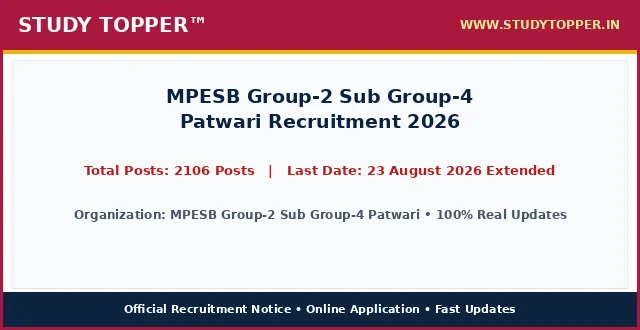
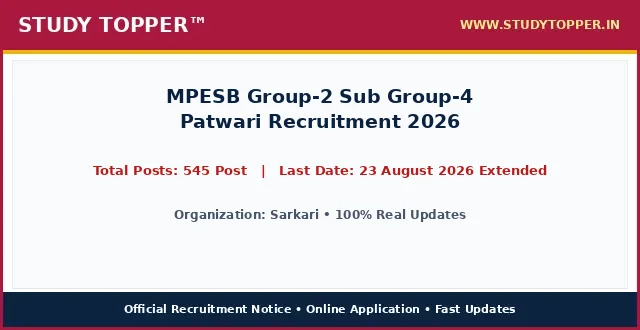
chore(lifecycle): daily auto-sort vacancies and update active dates

Changed region(s): [[0.375, 0.4848, 0.875, 0.5455], [0.0938, 0.6364, 0.9062, 0.6667], [0.125, 0.4848, 0.3438, 0.5455]]

diff --git a/pages/mpesb-group-2-sub-group-4-patwari-2026.html b/pages/mpesb-group-2-sub-group-4-patwari-2026.html
@@ -987,12 +987,12 @@ ul.wp-block-latest-posts a:hover {
 <main class="site-main" id="main">
 <div class="gb-container gb-container-b39c368c">
 <h1 class="gb-headline gb-headline-e52a0102 gb-headline-text" style="font-size: 22px; font-weight: 700; color: #0000cd; text-align: left; margin: 8px 0 4px 0; line-height: 1.3; width: 100%; font-family: '-apple-system, BlinkMacSystemFont, 'Segoe UI', Roboto, 'Helvetica Neue', Arial, sans-serif', Times, serif, Hind, sans-serif;">MPESB Group-2 Sub Group-4 Patwari Recruitment 2026</h1>
-<div class="gb-container gb-container-659bd175"><p style="color: #cd0808; font-weight: 700; font-size: 15px; margin: 2px 0 7px 0; text-align: left; font-family: '-apple-system, BlinkMacSystemFont, 'Segoe UI', Roboto, 'Helvetica Neue', Arial, sans-serif', Times, serif, Hind, sans-serif;">Post Date: August 21, 2026 07:48 PM</p></div>
-<p class="gb-headline gb-headline-550ae316 short_Details gb-headline-text" style="width: 100%; max-width: 100%; font-size: 16.8px; line-height: 1.55; color: #000000; text-align: justify; text-justify: inter-word; margin: 8px 0 14px 0; display: block; font-family: '-apple-system, BlinkMacSystemFont, 'Segoe UI', Roboto, 'Helvetica Neue', Arial, sans-serif', Times, serif, Hind, sans-serif;"><strong style="color: #0000cd;">MPESB Group-2 Sub Group-4 Patwari</strong> has officially published the recruitment notice <strong style="color: #cd0808;">MPESB Group-2 Sub Group-4 Patwari Recruitment 2026</strong> under notification number Official Advt 2026. Online applications are invited for 2106 Posts across multiple departments and cadre positions. Interested candidates possessing the requisite educational qualifications and falling between 18 Years to 45 Years (SC, ST, OBC, PwBD & All Female) can complete their online registration before the application deadline of 23 August 2026 Extended. Applicants should read the eligibility criteria, category reservation rules, and exam scheme thoroughly before submitting applications.</p>
+<div class="gb-container gb-container-659bd175"><p style="color: #cd0808; font-weight: 700; font-size: 15px; margin: 2px 0 7px 0; text-align: left; font-family: '-apple-system, BlinkMacSystemFont, 'Segoe UI', Roboto, 'Helvetica Neue', Arial, sans-serif', Times, serif, Hind, sans-serif;">Post Date: August 22, 2026 11:28 AM</p></div>
+<p class="gb-headline gb-headline-550ae316 short_Details gb-headline-text" style="width: 100%; max-width: 100%; font-size: 16.8px; line-height: 1.55; color: #000000; text-align: justify; text-justify: inter-word; margin: 8px 0 14px 0; display: block; font-family: '-apple-system, BlinkMacSystemFont, 'Segoe UI', Roboto, 'Helvetica Neue', Arial, sans-serif', Times, serif, Hind, sans-serif;"><strong style="color: #0000cd;">Sarkari</strong> has officially published the recruitment notice <strong style="color: #cd0808;">MPESB Group-2 Sub Group-4 Patwari Recruitment 2026</strong> under notification number Official Advt 2026. Online applications are invited for 545 Post across multiple departments and cadre positions. Interested candidates possessing the requisite educational qualifications and falling between 18 Years to 40 Years can complete their online registration before the application deadline of 23 August 2026 Extended. Applicants should read the eligibility criteria, category reservation rules, and exam scheme thoroughly before submitting applications.</p>
 <div class="gb-container gb-container-9849916c"><div class="social-buttons-compact" style="display: flex; justify-content: flex-start; align-items: center; gap: 10px; margin: 10px 0 16px 0; width: 100%;"><a class="social-btn-compact wa" href="https://whatsapp.com/channel/0029Va9xyz" rel="noopener" style="background-color: #00d084; color: #ffffff; padding: 10px 18px; border-radius: 4px; text-decoration: none; font-weight: bold; font-size: 15.5px; display: inline-flex; align-items: center; justify-content: center; height: auto;" target="_blank">WhatsApp</a><a class="social-btn-compact tg" href="https://t.me/studytopperofficial" rel="noopener" style="background-color: #0088cc; color: #ffffff; padding: 10px 18px; border-radius: 4px; text-decoration: none; font-weight: bold; font-size: 15.5px; display: inline-flex; align-items: center; justify-content: center; height: auto;" target="_blank">Telegram</a></div></div>
 <div class="gb-container gb-container-f58e6ca1" style="border: 2px solid #5b032f; border-radius: 4px; overflow: hidden; margin: 15px 0 20px 0; background-color: #ffffff; width: 100%; box-sizing: border-box;">
 <h2 class="gb-headline gb-headline-2ca5a791 gb-headline-text" style="font-size: 16px; font-weight: 700; text-align: center; color: #ef0303; line-height: 1.3; padding: 6px 4px; margin: 0; background: #ffffff; font-family: '-apple-system, BlinkMacSystemFont, 'Segoe UI', Roboto, 'Helvetica Neue', Arial, sans-serif', Times, serif, Hind, sans-serif;">MPESB Group-2 Sub Group-4 Patwari Recruitment 2026 &ndash; Latest Details &amp; Updates</h2>
-<h3 class="gb-headline gb-headline-7d5f86e8 gb-headline-text" style="font-size: 16px; font-weight: 600; text-align: center; color: #009703; line-height: 1.25; margin: 0; padding: 2px 4px 6px 4px; background: #ffffff; font-family: '-apple-system, BlinkMacSystemFont, 'Segoe UI', Roboto, 'Helvetica Neue', Arial, sans-serif', Times, serif, Hind, sans-serif;">MPESB Group-2 Sub Group-4 Patwari : Details &amp; Summary</h3>
+<h3 class="gb-headline gb-headline-7d5f86e8 gb-headline-text" style="font-size: 16px; font-weight: 600; text-align: center; color: #009703; line-height: 1.25; margin: 0; padding: 2px 4px 6px 4px; background: #ffffff; font-family: '-apple-system, BlinkMacSystemFont, 'Segoe UI', Roboto, 'Helvetica Neue', Arial, sans-serif', Times, serif, Hind, sans-serif;">Sarkari : Details &amp; Summary</h3>
 <p class="gb-headline gb-headline-79adf169 gb-headline-text" style="margin: 0 0 6px 0; font-family: '-apple-system, BlinkMacSystemFont, 'Segoe UI', Roboto, 'Helvetica Neue', Arial, sans-serif', Times, serif, Hind, sans-serif; text-align: center; font-size: 18px; font-weight: 700;"><a href="/" style="color: #0000ff; text-decoration: underline;">StudyTopper.in</a></p>
 
 <style id="st-post-boxes-responsive-css">
@@ -1025,7 +1025,7 @@ ul.wp-block-latest-posts a:hover {
     <div style="background-color: #5b032f; color: #ffffff; padding: 8px 10px; font-size: 20px; font-weight: 700; text-align: center; font-family: '-apple-system, BlinkMacSystemFont, 'Segoe UI', Roboto, 'Helvetica Neue', Arial, sans-serif', Times, serif, Hind, sans-serif;">Important Dates</div>
     <div style="padding: 12px 14px; background-color: #ffffff;">
       <ul style="padding-left: 20px; margin: 0; list-style-type: disc; text-align: left; font-size: 14pt; line-height: 1.6; font-family: '-apple-system, BlinkMacSystemFont, 'Segoe UI', Roboto, 'Helvetica Neue', Arial, sans-serif', Times, serif, Hind, sans-serif;">
-        <li><span style="font-size: 14pt;">Online Apply Start Date : <strong>04 August 2026</strong></span></li><li><span style="font-size: 14pt;">Online Apply Last Date : <span style="color: #ff0000;"><strong>23 August 2026 Extended</strong></span></span></li><li><span style="font-size: 14pt;">Last Date For Fee Payment : <span style="color: #ff0000;"><strong>23 August 2026</strong></span></span></li><li><span style="font-size: 14pt;">Correction Last Date : <span style="color: #ff0000;"><strong>23 August 2026</strong></span></span></li><li><span style="font-size: 14pt;">Exam Date : <strong>Notify Later</strong></span></li><li><span style="font-size: 14pt;">Admit Card : <strong>Before Exam</strong></span></li><li><span style="font-size: 14pt;">Result Date : <strong>Will Be Updated Here Soon</strong></span></li>
+        
       </ul>
     </div>
   </div>
@@ -1034,7 +1034,7 @@ ul.wp-block-latest-posts a:hover {
     <div style="background-color: #5b032f; color: #ffffff; padding: 8px 10px; font-size: 20px; font-weight: 700; text-align: center; font-family: '-apple-system, BlinkMacSystemFont, 'Segoe UI', Roboto, 'Helvetica Neue', Arial, sans-serif', Times, serif, Hind, sans-serif;">Application Fee</div>
     <div style="padding: 12px 14px; background-color: #ffffff;">
       <ul style="padding-left: 20px; margin: 0; list-style-type: disc; text-align: left; font-size: 14pt; line-height: 1.6; font-family: '-apple-system, BlinkMacSystemFont, 'Segoe UI', Roboto, 'Helvetica Neue', Arial, sans-serif', Times, serif, Hind, sans-serif;">
-        <li><span style="font-size: 14pt;">For General / Other State : <strong>Rs. 500/-</strong></span></li><li><span style="font-size: 14pt;">For SC / ST/ OBC : <strong>Rs. 250/-</strong></span></li><li><span style="font-size: 14pt;">For Portal Charge Extra : <strong>Rs. 60/-</strong></span></li><li><span style="font-size: 14pt;">Payment Mode (Online) : <strong>You can make the payment using the following methods:</strong></span></li>
+        <li><span style="font-size: 14pt;">Bihar Police BPSSC Sub Inspector SI Prohibition Result 2026 Advt. No. : <strong>03/2026</strong></span></li><li><span style="font-size: 14pt;">UP Scholarship Online Form 2026 : <strong>2027</strong></span></li>
       </ul>
       <div style="margin-top: 10px; font-size: 14pt; line-height: 1.5; color: #000000; border-top: 1px dashed #ccc; padding-top: 8px; font-family: '-apple-system, BlinkMacSystemFont, 'Segoe UI', Roboto, 'Helvetica Neue', Arial, sans-serif', Times, serif, Hind, sans-serif;">
         <strong>Mode of Payment / Access:</strong> Online via Net Banking, Debit Card, Credit Card, UPI or Free Candidate Portal.
@@ -1047,10 +1047,10 @@ ul.wp-block-latest-posts a:hover {
 <div class="st-grid-row" style="display: flex; flex-wrap: wrap; width: 100%; border-top: 2px solid #5b032f; margin: 0; padding: 0; box-sizing: border-box;">
   <!-- Left Col: Age Limits -->
   <div class="st-col-half st-col-border-right" style="box-sizing: border-box; vertical-align: top;">
-    <div style="background-color: #046132; color: #ffffff; padding: 8px 10px; font-size: 17px; font-weight: 700; text-align: center; font-family: '-apple-system, BlinkMacSystemFont, 'Segoe UI', Roboto, 'Helvetica Neue', Arial, sans-serif', Times, serif, Hind, sans-serif;">MPESB Group-2 Sub Group-4 Patwari : Age Limits As On 01 August 2026</div>
+    <div style="background-color: #046132; color: #ffffff; padding: 8px 10px; font-size: 17px; font-weight: 700; text-align: center; font-family: '-apple-system, BlinkMacSystemFont, 'Segoe UI', Roboto, 'Helvetica Neue', Arial, sans-serif', Times, serif, Hind, sans-serif;">Sarkari : Age Limits As On 01 August 2026</div>
     <div style="padding: 12px 14px; background-color: #ffffff;">
       <ul style="padding-left: 20px; margin: 0; list-style-type: disc; text-align: left; font-size: 14pt; line-height: 1.6; font-family: '-apple-system, BlinkMacSystemFont, 'Segoe UI', Roboto, 'Helvetica Neue', Arial, sans-serif', Times, serif, Hind, sans-serif;">
-        <li><span style="font-size: 14pt;">Minimum Age : <strong>18 Years</strong></span></li><li><span style="font-size: 14pt;">Maximum Age : <strong>45 Years (SC, ST, OBC, PwBD & All Female)</strong></span></li><li><span style="font-size: 14pt;">MPESB provides age relaxation for the Group : <strong>2 Sub Group-4 Patwari as per their regulations.</strong></span></li><li><span style="font-size: 14pt;">Minimum age required is 18 Years & The Maximum Age Is 40 : <strong>45 Years Category Wise as on 01 January 2026.</strong></span></li>
+        
       </ul>
     </div>
   </div>
@@ -1058,7 +1058,7 @@ ul.wp-block-latest-posts a:hover {
   <div class="st-col-half" style="box-sizing: border-box; vertical-align: top;">
     <div style="background-color: #f53c00; color: #ffffff; padding: 8px 10px; font-size: 20px; font-weight: 700; text-align: center; font-family: '-apple-system, BlinkMacSystemFont, 'Segoe UI', Roboto, 'Helvetica Neue', Arial, sans-serif', Times, serif, Hind, sans-serif;">Total Post</div>
     <div style="padding: 24px 10px; background-color: #ffffff; text-align: center;">
-      <span style="font-size: 28px; font-weight: 800; color: #000000; font-family: '-apple-system, BlinkMacSystemFont, 'Segoe UI', Roboto, 'Helvetica Neue', Arial, sans-serif', Times, serif, Hind, sans-serif;">2106 Posts</span>
+      <span style="font-size: 28px; font-weight: 800; color: #000000; font-family: '-apple-system, BlinkMacSystemFont, 'Segoe UI', Roboto, 'Helvetica Neue', Arial, sans-serif', Times, serif, Hind, sans-serif;">545 Post</span>
     </div>
   </div>
 </div>
@@ -1073,13 +1073,13 @@ ul.wp-block-latest-posts a:hover {
 <table style="border-collapse: collapse; width: 100%; height: 150px;">
 <tbody>
 <tr style="height: 25px;">
-<td colspan="2" style="width: 50%; text-align: center; height: 25px;"><span style="background-color: #000080; color: #ffffff; font-size: 14pt;"><strong> MPESB Group-2 Sub Group-4 Patwari : Category Wise Vacancy Details </strong></span></td>
+<td colspan="2" style="width: 50%; text-align: center; height: 25px;"><span style="background-color: #000080; color: #ffffff; font-size: 14pt;"><strong> Sarkari : Category Wise Vacancy Details </strong></span></td>
 </tr>
 <tr style="height: 25px;">
 <td style="width: 50%; height: 25px; text-align: center;"><span style="font-size: 14pt;"><strong>Category / Particulars</strong></span></td>
 <td style="width: 50%; height: 25px; text-align: center;"><span style="font-size: 14pt;"><strong>Count / Status</strong></span></td>
 </tr>
-<tr><td style="text-align: center;">UR</td><td style="text-align: center; font-weight: normal; color: inherit;">608 Posts</td></tr><tr><td style="text-align: center;">OBC</td><td style="text-align: center; font-weight: normal; color: inherit;">613 Posts</td></tr><tr><td style="text-align: center;">EWS</td><td style="text-align: center; font-weight: normal; color: inherit;">207 Posts</td></tr><tr><td style="text-align: center;">SC</td><td style="text-align: center; font-weight: normal; color: inherit;">274 Posts</td></tr><tr><td style="text-align: center;">ST</td><td style="text-align: center; font-weight: normal; color: inherit;">404 Posts</td></tr>
+
 </tbody>
 </table>
 <p>&nbsp;</p>
@@ -1090,11 +1090,7 @@ ul.wp-block-latest-posts a:hover {
 <th style="background-color: #f53c00; color: #ffffff; padding: 6px 10px; text-align: center; border: 1px solid #d35400; font-size: 15px; font-weight: 700; font-family: '-apple-system, BlinkMacSystemFont, 'Segoe UI', Roboto, 'Helvetica Neue', Arial, sans-serif', Times, serif, Hind, sans-serif;">Total Posts</th>
 <th style="background-color: #f53c00; color: #ffffff; padding: 6px 10px; text-align: center; border: 1px solid #d35400; font-size: 15px; font-weight: 700; font-family: '-apple-system, BlinkMacSystemFont, 'Segoe UI', Roboto, 'Helvetica Neue', Arial, sans-serif', Times, serif, Hind, sans-serif;">Eligibility Criteria</th>
 </tr>
-<tr>
-<td style="padding: 8px; border: 1px solid #ddd; font-weight: bold;">Group-2 Sub Group-4 Patwari</td>
-<td style="padding: 8px; border: 1px solid #ddd; text-align: center; font-weight: bold;">2106 Posts</td>
-<td style="padding: 8px; border: 1px solid #ddd;">Candidates must have a Bachelor’s Degree in any discipline from a university recognized by the Government of India or possess an equivalent qualification approved by the Central Government. CPCT Scorecard (Hindi Typing & Computer Efficiency)</td>
-</tr>
+
 </tbody>
 </table>
 <p>&nbsp;</p>
@@ -1104,10 +1100,10 @@ ul.wp-block-latest-posts a:hover {
 <table style="border-collapse: collapse; width: 100%;">
 <tbody>
 <tr>
-<td style="width: 100%; text-align: center;"><span style="background-color: #000080; color: #ffffff; font-size: 14pt; font-weight: bold; display: block; padding: 6px;"> How to Fill MPESB Group-2 Sub Group-4 Patwari Online Application Form </span></td>
+<td style="width: 100%; text-align: center;"><span style="background-color: #000080; color: #ffffff; font-size: 14pt; font-weight: bold; display: block; padding: 6px;"> How to Fill Sarkari Online Application Form </span></td>
 </tr>
 <tr>
-<td style="width: 100%;"><ol style="margin:0; padding-left:18px; text-align: left !important; list-style-position: outside !important"><li style="margin-bottom:6px; text-align: left !important;">Visit official portal for MPESB Group-2 Sub Group-4 Patwari Recruitment 2026 via direct application link in important links section below.</li><li style="margin-bottom:6px; text-align: left !important;">Read official recruitment notification carefully to verify category eligibility criteria and age limits.</li><li style="margin-bottom:6px; text-align: left !important;">Complete online candidate registration with valid mobile number and email ID.</li><li style="margin-bottom:6px; text-align: left !important;">Fill educational qualifications, identity details, and permanent address accurately.</li><li style="margin-bottom:6px; text-align: left !important;">Upload scanned photograph and signature in required dimensions.</li><li style="margin-bottom:6px; text-align: left !important;">Resize candidate photograph and signature accurately using StudyTopper Tools resizer at indtool.in.</li><li style="margin-bottom:6px; text-align: left !important;">Pay applicable category application fee online using Debit Card, Credit Card, Net Banking, or UPI.</li><li style="margin-bottom:6px; text-align: left !important;">Review full application form preview thoroughly and submit before 23 August 2026 Extended.</li><li style="margin-bottom:6px; text-align: left !important;">Download and print submitted application confirmation page for future reference.</li></ol></td>
+<td style="width: 100%;"><ol style="margin:0; padding-left:18px; text-align: left !important; list-style-position: outside !important"><li style="margin-bottom:6px; text-align: left !important;">Resize candidate photograph and signature accurately using the <a href="https://indtool.in" rel="noopener" target="_blank"><strong>StudyTopper Tools</strong></a> image resizer at indtool.in.</li></ol></td>
 </tr>
 </tbody>
 </table>
@@ -1115,12 +1111,12 @@ ul.wp-block-latest-posts a:hover {
 <table style="border-collapse: collapse; width: 100%;">
 <tbody>
 <tr>
-<td style="width: 100%; text-align: center;"><span style="background-color: #000080; color: #ffffff; font-size: 14pt;"><strong><span style="color: #ffffff;"> MPESB Group-2 Sub Group-4 Patwari Recruitment 2026 : Mode Of Selection </span></strong></span></td>
+<td style="width: 100%; text-align: center;"><span style="background-color: #000080; color: #ffffff; font-size: 14pt;"><strong><span style="color: #ffffff;"> Sarkari Recruitment 2026 : Mode Of Selection </span></strong></span></td>
 </tr>
 <tr>
 <td style="width: 100%;">
 <ul class="wp-block-list" style="text-align: left !important; list-style-position: outside !important">
-<li style="text-align: left !important;"><span style="font-size: 14pt;"><strong>Computer Based Examination (CBE) / Evaluation</strong></span></li><li style="text-align: left !important;"><span style="font-size: 14pt;"><strong>Document Verification</strong></span></li><li style="text-align: left !important;"><span style="font-size: 14pt;"><strong>Final Merit Allotment</strong></span></li>
+<li style="text-align: left !important;"><span style="font-size: 14pt;"><strong>Computer Based Examination (CBE) / Written Exam</strong></span></li><li style="text-align: left !important;"><span style="font-size: 14pt;"><strong>Document Verification</strong></span></li><li style="text-align: left !important;"><span style="font-size: 14pt;"><strong>Medical Examination</strong></span></li>
 </ul>
 </td>
 </tr>
@@ -1155,18 +1151,10 @@ ul.wp-block-latest-posts a:hover {
 
 <tr style="border-bottom: 1px solid #000000; background-color: #fff37a;">
 <td style="width: 50%; padding: 14px 16px; border-right: 1px solid #000000; text-align: center;">
-<span style="font-size: 19px; font-weight: 800; color: #000000; font-family: '-apple-system, BlinkMacSystemFont, 'Segoe UI', Roboto, 'Helvetica Neue', Arial, sans-serif', Times, serif, Hind, sans-serif;">Apply Online</span>
+<span style="font-size: 19px; font-weight: 800; color: #000000; font-family: '-apple-system, BlinkMacSystemFont, 'Segoe UI', Roboto, 'Helvetica Neue', Arial, sans-serif', Times, serif, Hind, sans-serif;">Apply Online Link</span>
 </td>
 <td style="width: 50%; padding: 14px 16px; text-align: center;">
-<span style="font-size: 20px; font-weight: 800; font-family: '-apple-system, BlinkMacSystemFont, 'Segoe UI', Roboto, 'Helvetica Neue', Arial, sans-serif', Times, serif, Hind, sans-serif;"><a href="https://esb.mponline.gov.in/Portal/Examinations/Vyapam/examsList.aspx" aria-label="Click Here for Apply Online - MPESB Group-2 Sub Group-4 Patwari Recruitment 2026" rel="noopener noreferrer" style="color: #0000ef; font-weight: 800; text-decoration: none;" target="_blank">Click Here</a></span>
-</td>
-</tr>
-<tr style="border-bottom: 1px solid #000000; background-color: #fff37a;">
-<td style="width: 50%; padding: 14px 16px; border-right: 1px solid #000000; text-align: center;">
-<span style="font-size: 19px; font-weight: 800; color: #000000; font-family: '-apple-system, BlinkMacSystemFont, 'Segoe UI', Roboto, 'Helvetica Neue', Arial, sans-serif', Times, serif, Hind, sans-serif;">Check Date Extend Notice</span>
-</td>
-<td style="width: 50%; padding: 14px 16px; text-align: center;">
-<span style="font-size: 20px; font-weight: 800; font-family: '-apple-system, BlinkMacSystemFont, 'Segoe UI', Roboto, 'Helvetica Neue', Arial, sans-serif', Times, serif, Hind, sans-serif;"><a href="https://esb.mp.gov.in/Advertisement/ADV_2026/Group2_SG4_2026_FormDate_extended_notice_18082026.pdf" aria-label="Click Here for Check Date Extend Notice - MPESB Group-2 Sub Group-4 Patwari Recruitment 2026" rel="noopener noreferrer" style="color: #0000ef; font-weight: 800; text-decoration: none;" target="_blank">Click Here</a></span>
+<span style="font-size: 20px; font-weight: 800; font-family: '-apple-system, BlinkMacSystemFont, 'Segoe UI', Roboto, 'Helvetica Neue', Arial, sans-serif', Times, serif, Hind, sans-serif;"><a href="https://www.sarkariresult.com/2026/mpesb-group2-subgroup-4-aug26/" aria-label="Click Here for Apply Online Link - MPESB Group-2 Sub Group-4 Patwari Recruitment 2026" rel="noopener noreferrer" style="color: #0000ef; font-weight: 800; text-decoration: none;" target="_blank">Click Here</a></span>
 </td>
 </tr>
 <tr style="border-bottom: 1px solid #000000; background-color: #fff37a;">
@@ -1174,23 +1162,31 @@ ul.wp-block-latest-posts a:hover {
 <span style="font-size: 19px; font-weight: 800; color: #000000; font-family: '-apple-system, BlinkMacSystemFont, 'Segoe UI', Roboto, 'Helvetica Neue', Arial, sans-serif', Times, serif, Hind, sans-serif;">Check Official Notification</span>
 </td>
 <td style="width: 50%; padding: 14px 16px; text-align: center;">
-<span style="font-size: 20px; font-weight: 800; font-family: '-apple-system, BlinkMacSystemFont, 'Segoe UI', Roboto, 'Helvetica Neue', Arial, sans-serif', Times, serif, Hind, sans-serif;"><a href="https://esb.mp.gov.in/Rulebooks/RB_2026/Group2_SG4_Patwari_rect_test_2026_Rulebook_04082026_v2.pdf" aria-label="Click Here for Check Official Notification - MPESB Group-2 Sub Group-4 Patwari Recruitment 2026" rel="noopener noreferrer" style="color: #0000ef; font-weight: 800; text-decoration: none;" target="_blank">Click Here</a></span>
+<span style="font-size: 20px; font-weight: 800; font-family: '-apple-system, BlinkMacSystemFont, 'Segoe UI', Roboto, 'Helvetica Neue', Arial, sans-serif', Times, serif, Hind, sans-serif;"><a href="" aria-label="Click Here for Check Official Notification - MPESB Group-2 Sub Group-4 Patwari Recruitment 2026" rel="noopener noreferrer" style="color: #0000ef; font-weight: 800; text-decoration: none;" target="_blank">Click Here</a></span>
 </td>
 </tr>
 <tr style="border-bottom: 1px solid #000000; background-color: #fff37a;">
 <td style="width: 50%; padding: 14px 16px; border-right: 1px solid #000000; text-align: center;">
-<span style="font-size: 19px; font-weight: 800; color: #000000; font-family: '-apple-system, BlinkMacSystemFont, 'Segoe UI', Roboto, 'Helvetica Neue', Arial, sans-serif', Times, serif, Hind, sans-serif;">MPESB Official Website</span>
+<span style="font-size: 19px; font-weight: 800; color: #000000; font-family: '-apple-system, BlinkMacSystemFont, 'Segoe UI', Roboto, 'Helvetica Neue', Arial, sans-serif', Times, serif, Hind, sans-serif;">Photo / Sign Resizer Tool</span>
 </td>
 <td style="width: 50%; padding: 14px 16px; text-align: center;">
-<span style="font-size: 20px; font-weight: 800; font-family: '-apple-system, BlinkMacSystemFont, 'Segoe UI', Roboto, 'Helvetica Neue', Arial, sans-serif', Times, serif, Hind, sans-serif;"><a href="https://esb.mp.gov.in/e_default.html" aria-label="Click Here for MPESB Official Website - MPESB Group-2 Sub Group-4 Patwari Recruitment 2026" rel="noopener noreferrer" style="color: #0000ef; font-weight: 800; text-decoration: none;" target="_blank">Click Here</a></span>
+<span style="font-size: 20px; font-weight: 800; font-family: '-apple-system, BlinkMacSystemFont, 'Segoe UI', Roboto, 'Helvetica Neue', Arial, sans-serif', Times, serif, Hind, sans-serif;"><a href="https://indtool.in" aria-label="Click Here for Photo / Sign Resizer Tool - MPESB Group-2 Sub Group-4 Patwari Recruitment 2026" rel="noopener noreferrer" style="color: #0000ef; font-weight: 800; text-decoration: none;" target="_blank">Click Here</a></span>
 </td>
 </tr>
-<tr style=" background-color: #fff37a;">
+<tr style="border-bottom: 1px solid #000000; background-color: #fff37a;">
 <td style="width: 50%; padding: 14px 16px; border-right: 1px solid #000000; text-align: center;">
 <span style="font-size: 19px; font-weight: 800; color: #000000; font-family: '-apple-system, BlinkMacSystemFont, 'Segoe UI', Roboto, 'Helvetica Neue', Arial, sans-serif', Times, serif, Hind, sans-serif;">Check Sarkari Result</span>
 </td>
 <td style="width: 50%; padding: 14px 16px; text-align: center;">
 <span style="font-size: 20px; font-weight: 800; font-family: '-apple-system, BlinkMacSystemFont, 'Segoe UI', Roboto, 'Helvetica Neue', Arial, sans-serif', Times, serif, Hind, sans-serif;"><a href="/" aria-label="Click Here for Check Sarkari Result - MPESB Group-2 Sub Group-4 Patwari Recruitment 2026" rel="noopener noreferrer" style="color: #0000ef; font-weight: 800; text-decoration: none;" >Click Here</a></span>
+</td>
+</tr>
+<tr style=" background-color: #fff37a;">
+<td style="width: 50%; padding: 14px 16px; border-right: 1px solid #000000; text-align: center;">
+<span style="font-size: 19px; font-weight: 800; color: #000000; font-family: '-apple-system, BlinkMacSystemFont, 'Segoe UI', Roboto, 'Helvetica Neue', Arial, sans-serif', Times, serif, Hind, sans-serif;">Sarkari Website</span>
+</td>
+<td style="width: 50%; padding: 14px 16px; text-align: center;">
+<span style="font-size: 20px; font-weight: 800; font-family: '-apple-system, BlinkMacSystemFont, 'Segoe UI', Roboto, 'Helvetica Neue', Arial, sans-serif', Times, serif, Hind, sans-serif;"><a href="" aria-label="Click Here for Sarkari Website - MPESB Group-2 Sub Group-4 Patwari Recruitment 2026" rel="noopener noreferrer" style="color: #0000ef; font-weight: 800; text-decoration: none;" target="_blank">Click Here</a></span>
 </td>
 </tr>
 </tbody>
@@ -1204,9 +1200,9 @@ ul.wp-block-latest-posts a:hover {
   <div style="font-size: 14.5px; line-height: 1.65; color: #222222;">
     <p style="margin: 0 0 4px 0;"><strong style="color: #000080;">Q1. What is the last date to apply for MPESB Group-2 Sub Group-4 Patwari Recruitment 2026?</strong></p>
 <p style="margin: 0 0 16px 0; color: #333333; line-height: 1.6;">Ans. The last date for online submission of application is 23 August 2026 Extended.</p><p style="margin: 0 0 4px 0;"><strong style="color: #000080;">Q2. What is the age limit for MPESB Group-2 Sub Group-4 Patwari Recruitment 2026?</strong></p>
-<p style="margin: 0 0 16px 0; color: #333333; line-height: 1.6;">Ans. Candidate age should generally be between 18 Years and 45 Years (SC, ST, OBC, PwBD & All Female) as on 01 August 2026. Age relaxation is applicable per rules.</p><p style="margin: 0 0 4px 0;"><strong style="color: #000080;">Q3. What is the application fee for MPESB Group-2 Sub Group-4 Patwari Recruitment 2026?</strong></p>
+<p style="margin: 0 0 16px 0; color: #333333; line-height: 1.6;">Ans. Candidate age should generally be between 18 Years and 40 Years as on 01 August 2026. Age relaxation is applicable per rules.</p><p style="margin: 0 0 4px 0;"><strong style="color: #000080;">Q3. What is the application fee for MPESB Group-2 Sub Group-4 Patwari Recruitment 2026?</strong></p>
 <p style="margin: 0 0 16px 0; color: #333333; line-height: 1.6;">Ans. Application fee varies by category (e.g., General/OBC: Rs. 100/-, SC/ST/PwD: Exempted).</p><p style="margin: 0 0 4px 0;"><strong style="color: #000080;">Q4. How many total posts are available in MPESB Group-2 Sub Group-4 Patwari Recruitment 2026?</strong></p>
-<p style="margin: 0 0 16px 0; color: #333333; line-height: 1.6;">Ans. A total of 2106 Posts have been officially announced for this recruitment drive.</p><p style="margin: 0 0 4px 0;"><strong style="color: #000080;">Q5. How can I apply online for MPESB Group-2 Sub Group-4 Patwari Recruitment 2026?</strong></p>
+<p style="margin: 0 0 16px 0; color: #333333; line-height: 1.6;">Ans. A total of 545 Post have been officially announced for this recruitment drive.</p><p style="margin: 0 0 4px 0;"><strong style="color: #000080;">Q5. How can I apply online for MPESB Group-2 Sub Group-4 Patwari Recruitment 2026?</strong></p>
 <p style="margin: 0 0 0 0; color: #333333; line-height: 1.6;">Ans. Eligible candidates can click the 'Apply Online' link in the Important Links table, register, fill details, resize photo/signature via indtool.in, and submit before 23 August 2026 Extended.</p>
   </div>
 </div>

diff --git a/fact_checker_agent.py b/fact_checker_agent.py
@@ -103,10 +103,71 @@ class FactCheckerAgent:
                         elif 'official website' in at:
                             official_site = href
 
+
+                    # Table Extractions
+                    post_matrix = []
+                    category_vacancies = {}
+                    how_to_fill = []
+                    tables = soup.find_all('table')
+                    if tables:
+                        table = tables[-1]
+                        rows = table.find_all('tr')
+                        i = 0
+                        while i < len(rows):
+                            tr = rows[i]
+                            text = tr.get_text(separator=' | ', strip=True).lower()
+                            
+                            # 1. Post Matrix
+                            if 'vacancy details' in text and 'total' in text and 'category wise' not in text:
+                                i += 1
+                                if i < len(rows):
+                                    i += 1
+                                    while i < len(rows):
+                                        data_text = rows[i].get_text(strip=True).lower()
+                                        if 'how to fill' in data_text or 'category wise' in data_text or 'exam district' in data_text or 'interested candidates' in data_text:
+                                            i -= 1
+                                            break
+                                        tds = [td.get_text(separator=' ', strip=True) for td in rows[i].find_all(['td', 'th'])]
+                                        if len(tds) >= 3:
+                                            post_matrix.append({
+                                                "name": tds[0],
+                                                "posts": tds[1],
+                                                "eligibility": " ".join(tds[2:])
+                                            })
+                                        i += 1
+                                    i += 1
+                                    continue
+                                    
+                            # 2. Category Wise
+                            if 'category wise vacancy details' in text:
+                                i += 1
+                                if i < len(rows):
+                                    headers_td = [td.get_text(strip=True) for td in rows[i].find_all(['td', 'th'])]
+                                    i += 1
+                                    if i < len(rows):
+                                        data_tds = [td.get_text(strip=True) for td in rows[i].find_all(['td', 'th'])]
+                                        for h, d in zip(headers_td, data_tds):
+                                            if h.lower() != 'post name':
+                                                category_vacancies[h] = d
+                                    i += 1
+                                    continue
+                                    
+                            # 3. How to Fill
+                            if 'how to fill' in text and 'online form' in text:
+                                td = tr.find(['td', 'th'])
+                                if td:
+                                    lines = [t.strip() for t in td.stripped_strings if len(t.strip()) > 10 and 'Sarkari Result' not in t]
+                                    how_to_fill = lines[1:] if lines else []
+                            
+                            i += 1
+
                     return {
                         "verified": True,
                         "source_url": url,
                         "title": title,
+                        "post_matrix": post_matrix,
+                        "category_vacancies": category_vacancies,
+                        "how_to_fill": how_to_fill,
                         "total_posts": total_posts,
                         "important_dates": dates,
                         "application_fee": fees,

diff --git a/rebuild_tables.py b/rebuild_tables.py
@@ -1,0 +1,40 @@
+import sys
+import json
+import os
+sys.path.append('/root/sarkari-result-portal')
+import fact_checker_agent
+import universal_design_agent
+
+with open('/root/sarkari-result-portal/data/all_posts.json', 'r', encoding='utf-8') as f:
+    posts = json.load(f)
+
+uda = universal_design_agent.UniversalDesignAgent()
+fca = fact_checker_agent.FactCheckerAgent()
+
+count = 0
+for p in posts:
+    if p.get('category') == 'latest-jobs':
+        slug = p['slug']
+        # Try to re-fetch data
+        url = f"https://www.sarkariresult.com/2026/{slug}/"
+        print(f"Re-fetching tables for {slug}...")
+        data = fca.fetch_live_source_data(slug, url)
+        if data:
+            # We want to keep the old humanizer properties (slug, title, short_desc, last_date)
+            # but inject the new tables.
+            data['slug'] = p.get('slug')
+            data['category'] = p.get('category', 'latest-jobs')
+            data['organization'] = data.get('title', 'Govt Board').split()[0]
+            data['title'] = p.get('title')
+            data['short_desc'] = p.get('short_desc')
+            data['last_date'] = p.get('application_last_date')
+            
+            # Use UniversalDesignAgent to rebuild the HTML
+            try:
+                uda.publish(data)
+                print(f"Rebuilt HTML for {slug} with tables.")
+                count += 1
+            except Exception as e:
+                print(f"Failed to rebuild {slug}: {e}")
+
+print(f"Rebuilt {count} posts.")
